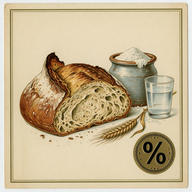
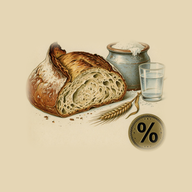
Refaz os ícones sangrados para não ficarem quadrados no Android.
O ícone era um cartão com moldura sobre fundo cinza, e o Android, ao
recortá-lo em círculo, mostrava um quadrado com moldura dentro. O novo
gerador (tools/gerar-icones.py) recorta a ilustração da arte original
sem a moldura e a põe sobre um fundo bege até as bordas; no maskable,
ela cabe no círculo seguro de 80%. Gera os quatro ícones e faz backup
dos anteriores em icons/backup/.

Sobe o cache para padeiro-v47. Tarefa: backlog/0036.

diff --git a/ServiceWorker.js b/ServiceWorker.js
@@ -1,6 +1,6 @@
 // Percentual do padeiro — © 2026 Alexandre da Silva
 // SPDX-License-Identifier: LGPL-3.0-or-later
-const CACHE = "padeiro-v46";
+const CACHE = "padeiro-v47";
 const FILES = [
   "./",
   "./index.html",

diff --git a/tools/gerar-icones.py b/tools/gerar-icones.py
@@ -1,0 +1,86 @@
+#!/usr/bin/env python3
+# Percentual do padeiro — © 2026 Alexandre da Silva
+# SPDX-License-Identifier: LGPL-3.0-or-later
+"""Gera os ícones do app (icons/*.png) a partir de icons/fonte-icone.png.
+
+A arte original é um cartão com moldura. O Android recorta o ícone "maskable"
+em círculo ou forma arredondada, e só garante o círculo central de 80% (área
+segura). Por isso os ícones aqui são sangrados: fundo bege até as bordas e a
+ilustração (pão, pote, copo e selo de %) recortada da arte, sem a moldura,
+centralizada e no tamanho que cabe em cada caso.
+
+    python3 tools/gerar-icones.py
+
+Antes de gerar, os ícones atuais vão para icons/backup/AAAAMMDD-HHMMSS/
+(pasta fora do git, no .gitignore). Precisa de Pillow.
+"""
+
+import shutil
+from datetime import datetime
+from pathlib import Path
+
+from PIL import Image, ImageDraw, ImageFilter
+
+ROOT = Path(__file__).resolve().parent.parent
+ICONS = ROOT / "icons"
+SOURCE = ICONS / "fonte-icone.png"
+
+PAPER = (229, 214, 181)        # bege do cartão da arte original
+ART_BOX = (48, 132, 472, 468)  # ilustração dentro da moldura, em px da arte de 512
+
+# nome, tamanho, fração do lado que a ilustração pode ocupar (pela diagonal)
+OUTPUTS = [
+    # maskable: a ilustração inteira cabe no círculo de 80%, com folga
+    ("icon-maskable-512.png", 512, 0.76),
+    # "any": quadrado sangrado, sem recorte; pode ocupar mais
+    ("icon-512.png", 512, 0.96),
+    ("icon-192.png", 192, 0.96),
+    # iPhone arredonda os cantos sozinho
+    ("apple-touch-icon.png", 180, 0.90),
+]
+
+
+def art():
+    """A ilustração recortada, com as bordas esfumadas para sumir no fundo."""
+    crop = Image.open(SOURCE).convert("RGB").crop(ART_BOX)
+    w, h = crop.size
+    feather = 18
+    mask = Image.new("L", (w, h), 0)
+    ImageDraw.Draw(mask).rounded_rectangle((feather, feather, w - feather, h - feather), radius=feather * 2, fill=255)
+    mask = mask.filter(ImageFilter.GaussianBlur(feather / 2))
+    return crop, mask
+
+
+def icon(size, fill):
+    crop, mask = art()
+    w, h = crop.size
+    # a diagonal da ilustração ocupa `fill` do lado (no maskable, cabe no círculo)
+    diag = (w ** 2 + h ** 2) ** 0.5
+    scale = size * fill / diag
+    tw, th = round(w * scale), round(h * scale)
+    canvas = Image.new("RGB", (size, size), PAPER)
+    canvas.paste(crop.resize((tw, th), Image.LANCZOS), ((size - tw) // 2, (size - th) // 2), mask.resize((tw, th), Image.LANCZOS))
+    return canvas
+
+
+def backup():
+    current = [ICONS / name for name, *_ in OUTPUTS if (ICONS / name).exists()]
+    if not current:
+        return
+    dest = ICONS / "backup" / datetime.now().strftime("%Y%m%d-%H%M%S")
+    dest.mkdir(parents=True, exist_ok=True)
+    for path in current:
+        shutil.copy2(path, dest / path.name)
+    print(f"backup: {dest.relative_to(ROOT)} ({len(current)} arquivos)")
+
+
+def main():
+    backup()
+    for name, size, fill in OUTPUTS:
+        path = ICONS / name
+        icon(size, fill).save(path, optimize=True)
+        print(path.relative_to(ROOT), f"{size}x{size}", f"{path.stat().st_size // 1024} KB")
+
+
+if __name__ == "__main__":
+    main()

diff --git a/AGENTS.md b/AGENTS.md
@@ -19,6 +19,8 @@ Não há bundler nem CDN. Tudo que a página carrega está no repositório.
 - `ServiceWorker.js` — cache da PWA. O nome do arquivo é esse
 - `manifest.webmanifest`, `icons/`, `img/`, `vendor/`
 
+Os ícones em `icons/` são gerados por `python3 tools/gerar-icones.py` a partir de `icons/fonte-icone.png`, a arte original, que não deve ser apagada. São sangrados (fundo bege até as bordas, sem a moldura da arte), e no `icon-maskable-512.png` a ilustração cabe no círculo central de 80%, a área que o Android garante ao recortar. Cada geração copia antes os ícones atuais para `icons/backup/`, no `.gitignore`.
+
 `vendor/` traz Vue 3.5 (`vue.global.prod.js`, com compilador), Pico.css 2.1 e a fonte Outfit. Não troque por CDN.
 
 ## Publicação
@@ -33,7 +35,7 @@ O service worker só registra em HTTP. Sirva a pasta e abra no navegador:
 python3 -m http.server 8769 --bind 127.0.0.1
 ```
 
-`file://` não instala o app. Depois de mudar HTML, CSS, JS ou imagens cacheadas, suba a constante `CACHE` em `ServiceWorker.js` (`padeiro-v46` hoje). O app funciona 100% offline depois da primeira visita. A estratégia é rede primeiro, revalidando com o servidor (`cache: "no-cache"`); sem rede, com erro ou depois de 3 s (`NETWORK_TIMEOUT`), vale o cache, e a busca segue em segundo plano atualizando o cache. A instalação de uma versão nova baixa os arquivos com `cache: "reload"` e só apaga a versão anterior depois que a nova está completa; se falhar, a anterior continua. Todo arquivo que a página carrega precisa estar em `FILES`. O número da versão que o app mostra vem de `CACHE` (`padeiro-v46` → versão 46): subir o `CACHE` é publicar uma versão nova. O ícone ao lado do nome abre o modal Sobre, com a versão, se o app está offline e se os dados estão protegidos. "Verificar atualizações" chama `registration.update()`: com versão nova, instala e oferece recarregar; sem versão nova, pede ao service worker (mensagem `refresh`) para baixar de novo todos os arquivos direto do servidor. A página fala com o service worker por `postMessage` (`version`, `refresh`). A página pede `navigator.storage.persist()` para o navegador não apagar o cache e as receitas quando faltar espaço.
+`file://` não instala o app. Depois de mudar HTML, CSS, JS ou imagens cacheadas, suba a constante `CACHE` em `ServiceWorker.js` (`padeiro-v47` hoje). O app funciona 100% offline depois da primeira visita. A estratégia é rede primeiro, revalidando com o servidor (`cache: "no-cache"`); sem rede, com erro ou depois de 3 s (`NETWORK_TIMEOUT`), vale o cache, e a busca segue em segundo plano atualizando o cache. A instalação de uma versão nova baixa os arquivos com `cache: "reload"` e só apaga a versão anterior depois que a nova está completa; se falhar, a anterior continua. Todo arquivo que a página carrega precisa estar em `FILES`. O número da versão que o app mostra vem de `CACHE` (`padeiro-v47` → versão 47): subir o `CACHE` é publicar uma versão nova. O ícone ao lado do nome abre o modal Sobre, com a versão, se o app está offline e se os dados estão protegidos. "Verificar atualizações" chama `registration.update()`: com versão nova, instala e oferece recarregar; sem versão nova, pede ao service worker (mensagem `refresh`) para baixar de novo todos os arquivos direto do servidor. A página fala com o service worker por `postMessage` (`version`, `refresh`). A página pede `navigator.storage.persist()` para o navegador não apagar o cache e as receitas quando faltar espaço.
 
 Não há suíte de testes. `node -e` consegue importar `calc.js`. Mudança de tela precisa ser exercida no navegador, no celular (cerca de 390 px) e na largura máxima do app (560 px).
 

diff --git a/backlog/0036-icone-sangrado-para-android.md b/backlog/0036-icone-sangrado-para-android.md
@@ -1,0 +1,34 @@
+# 0036 — Ícone sangrado, que não fica quadrado no Android
+
+- **Autor:** Alexandre da Silva
+- **Data:** 2026-10-02
+- **Status:** concluída
+- **Arquivos:** `tools/gerar-icones.py`, `icons/*.png`, `icons/fonte-icone.png`, `.gitignore`, `ServiceWorker.js`, `AGENTS.md`
+
+## Contexto
+
+O ícone era um cartão quadrado com moldura dupla sobre fundo cinza. O Android recorta o ícone "maskable" em círculo ou forma arredondada, e o resultado era um quadrado bege com moldura dentro do círculo, com os cantos cinza.
+
+## O que foi feito
+
+- **Gerador:** `tools/gerar-icones.py` gera os ícones a partir da arte original, guardada como `icons/fonte-icone.png`.
+  - recorta a ilustração (pão, pote, copo e selo de %), sem a moldura, com as bordas esfumadas;
+  - põe a ilustração sobre um fundo bege contínuo (`#e5d6b5`, a cor do cartão), que vai até as bordas;
+  - no `icon-maskable-512.png`, deixa a ilustração inteira dentro do círculo central de 80%, a área segura que o Android garante;
+  - no `icon-512`, `icon-192` e `apple-touch-icon` (180), a ilustração é maior, porque esses não são recortados (o iPhone só arredonda os cantos).
+- **Backup:** antes de gerar, o script copia os ícones atuais para `icons/backup/AAAAMMDD-HHMMSS/`, no `.gitignore`. Os ícones anteriores também continuam no histórico do git.
+- `CACHE` subiu para `padeiro-v47`.
+
+## Critérios de aceite
+
+- [x] Com máscara de círculo, squircle e quadrado arredondado, o ícone não mostra moldura nem cantos de outra cor
+- [x] A ilustração inteira fica dentro do círculo de 80% no maskable
+- [x] Os quatro ícones são gerados de novo pelo script, com backup dos anteriores
+
+## Como verificar
+
+```bash
+python3 tools/gerar-icones.py
+```
+
+No Android, remova o app da tela inicial e instale de novo: o launcher costuma guardar o ícone antigo.
